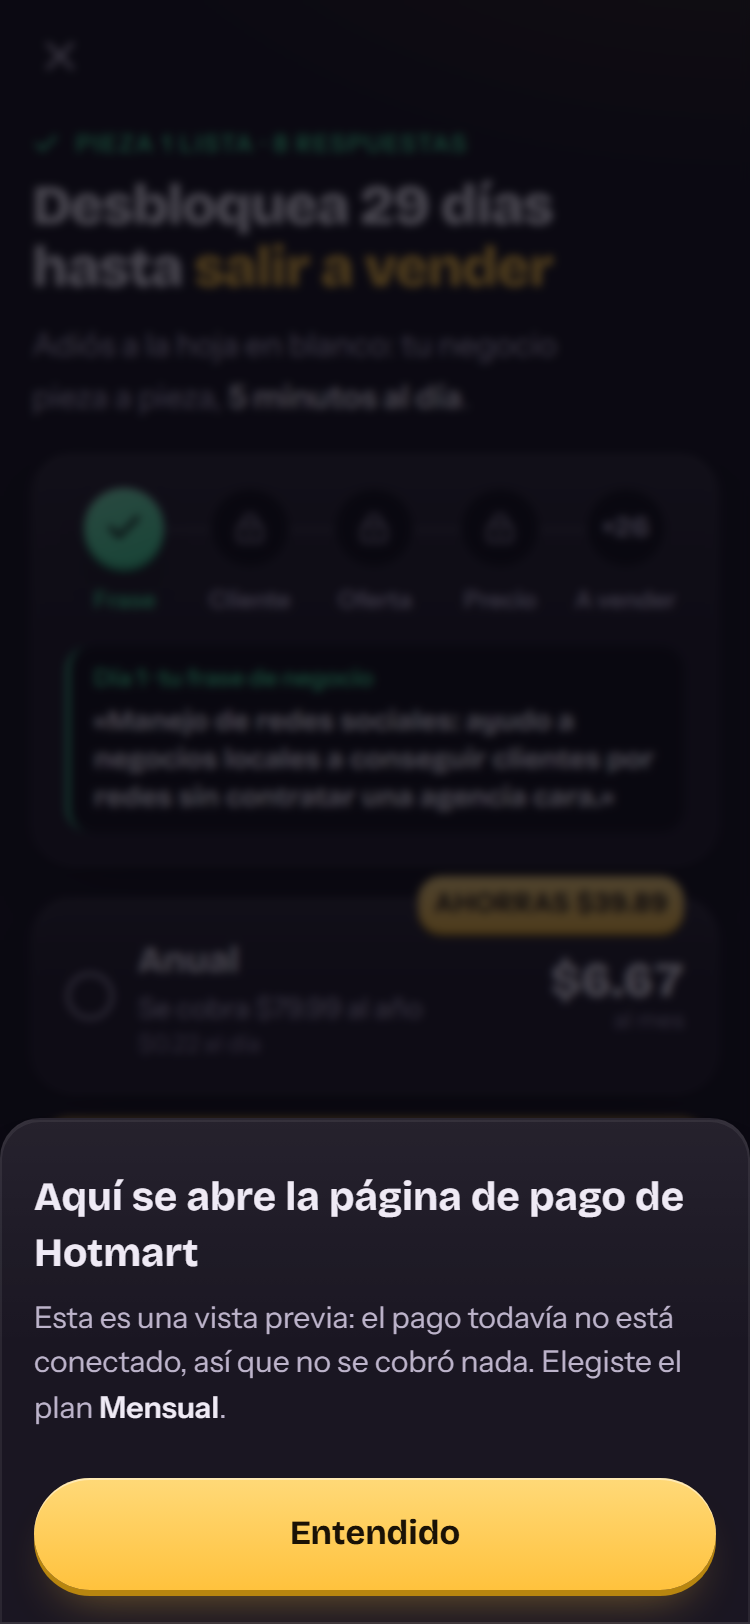
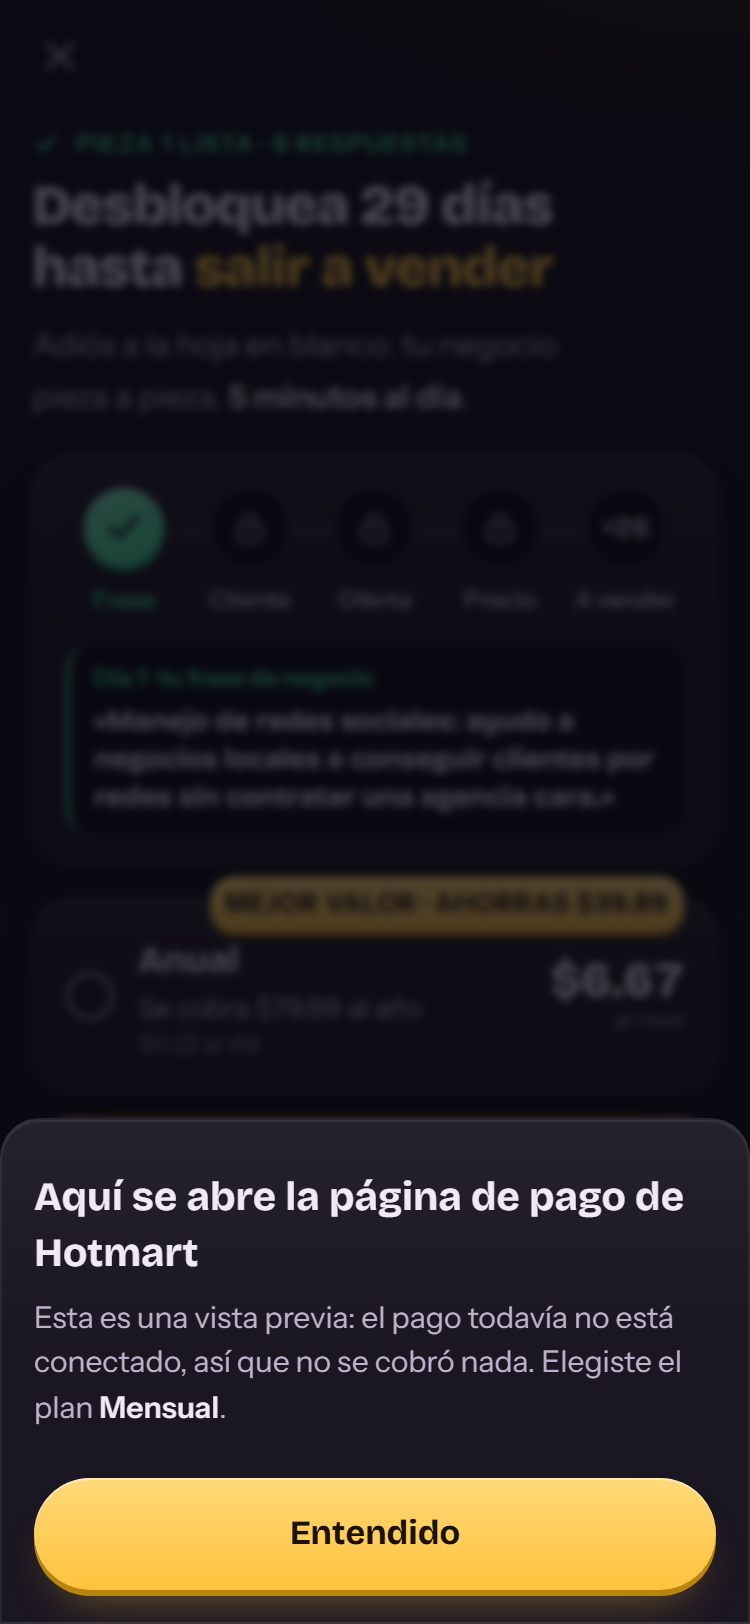
style(paywall): etiqueta Mejor valor · ahorras $39.89 (elegida por la dueña)

Changed region(s): [[0.276, 0.5234, 0.5827, 0.585]]

diff --git a/components/paywall/Paywall.tsx b/components/paywall/Paywall.tsx
@@ -282,7 +282,7 @@ function Planes({ planInicial }: { planInicial?: Plan }) {
                       transition={{ type: 'spring', bounce: 0.3, duration: 0.4, delay: reduce ? 0 : 0.5 }}
                       className="absolute -top-3 right-4 rounded-[var(--radius-chip)] bg-gradient-to-b from-gold-light to-gold px-2 py-1 text-caption font-extrabold tracking-[0.04em] text-on-gold uppercase shadow-[0_2px_0_var(--gold-deep)]"
                     >
-                      Ahorras {AHORRO_ANUAL}
+                      Mejor valor · ahorras {AHORRO_ANUAL}
                     </motion.span>
                   )}
                   <span
